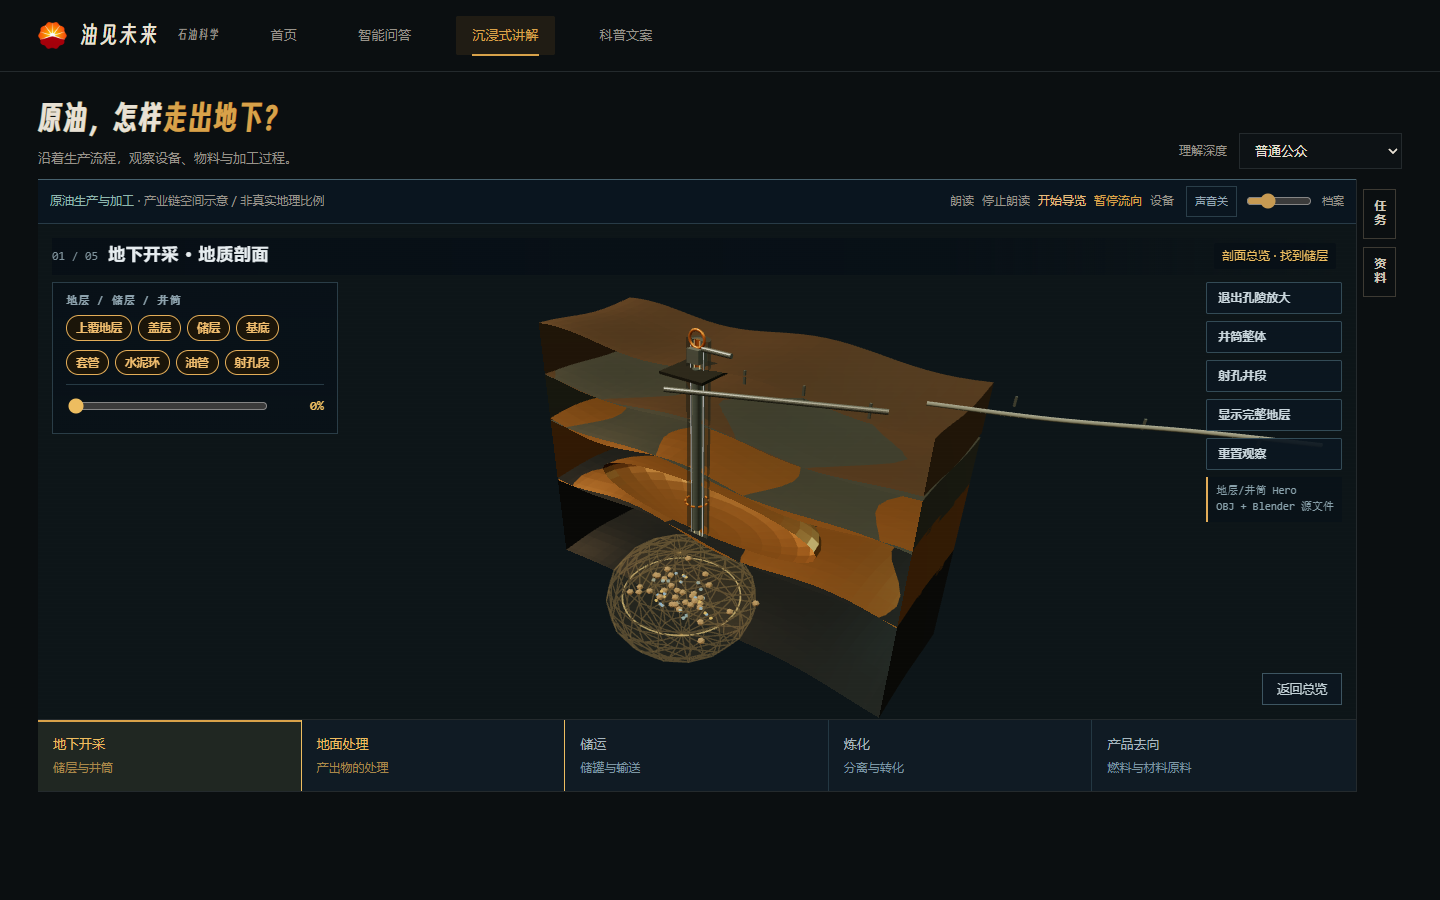
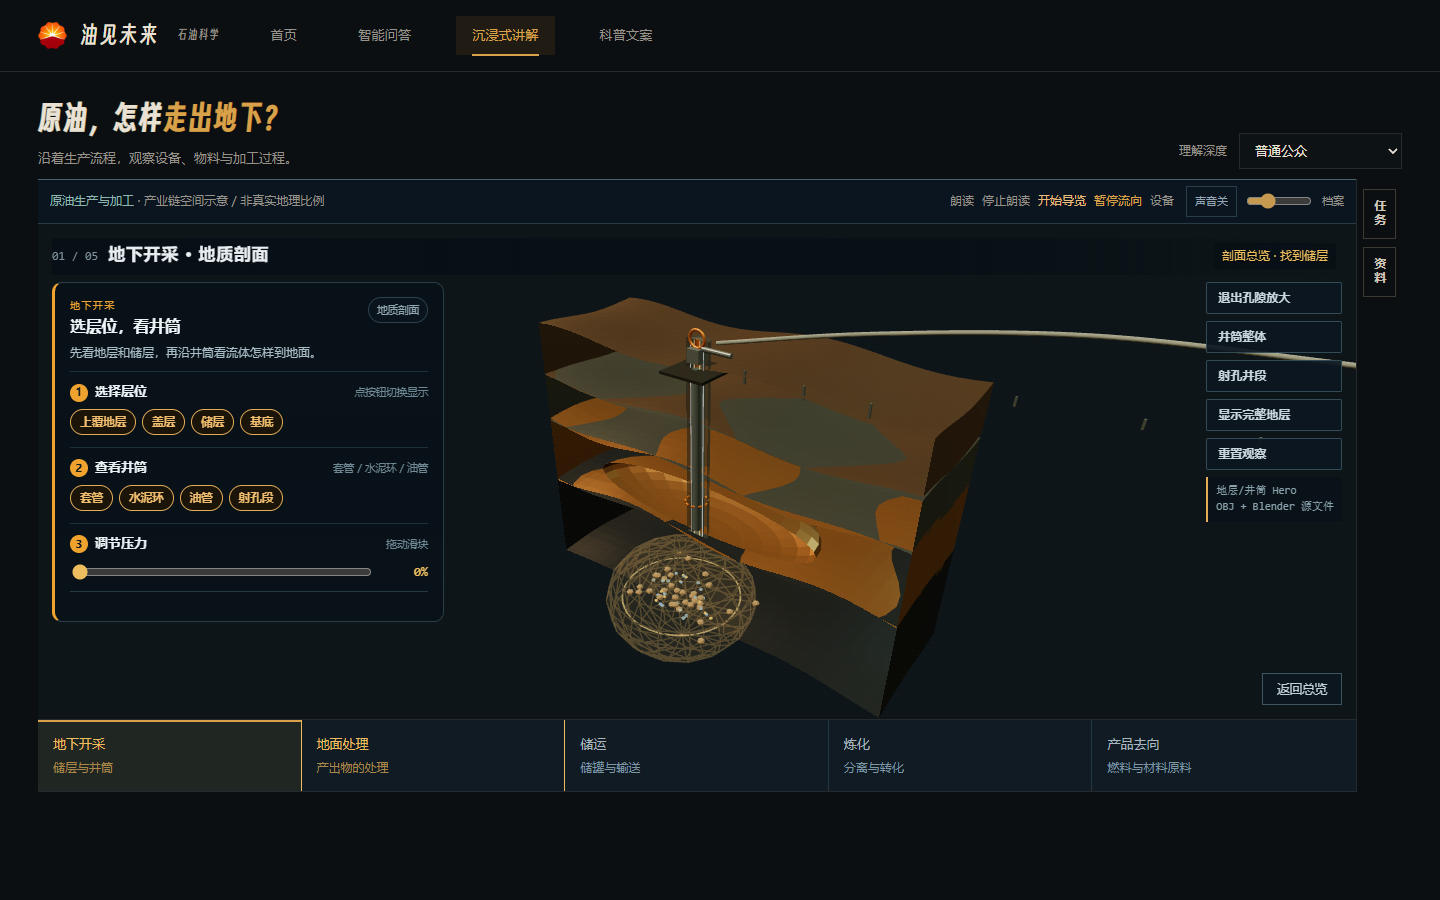
feat: align underground and product task panels

diff --git a/web/levels/l1.js b/web/levels/l1.js
@@ -62,6 +62,8 @@
     const s = document.createElement('style');
     s.id = 'ug-style';
     s.textContent = `
+      .ug-left.lvl2{width:min(392px,calc(100% - 28px));max-width:392px;max-height:calc(100% - 100px);top:58px;border-radius:10px;border-left:3px solid #f0a22e;padding:14px 15px 12px}
+      @media(max-width:900px){.ug-left.lvl2{width:min(360px,calc(100% - 28px))}}
       .ug-left{position:absolute;left:14px;top:58px;width:286px;max-height:calc(100% - 100px);overflow:auto;pointer-events:auto;
         background:linear-gradient(180deg,rgba(8,17,24,.95),rgba(8,17,24,.86));border:1px solid #2a3d47;padding:12px 13px;z-index:3}
       .ug-kicker{font:600 10.5px/1.2 ui-monospace,Consolas,monospace;letter-spacing:.13em;color:#8da2ad;text-transform:uppercase;margin-bottom:8px}
@@ -105,11 +107,23 @@
     ui.className = 'lvl';
     ui.innerHTML = [
       '<div class="lvl__bar"><span class="lvl__step">01 / 05</span><b>地下开采 · 地质剖面</b><span class="lvl__hint" id="l1-hint">镜头正在进入地下…</span></div>',
-      '<div class="ug-left" id="l1-panel">',
-      '  <div class="ug-kicker">地层 / 储层 / 井筒</div>',
+      '<div class="ug-left lvl2" id="l1-panel">',
+      '  <div class="lvl2__head"><div><span class="lvl2__eyebrow">地下开采</span><b>选层位，看井筒</b></div><span class="lvl2__state" id="l1-state">地质剖面</span></div>',
+      '  <p class="lvl2__lede">先看地层和储层，再沿井筒看流体怎样到地面。</p>',
+      '  <div class="lvl2__step">',
+      '  <div class="lvl2__stephead"><span class="lvl2__num">1</span><b>选择层位</b><span class="lvl2__stepnote">点按钮切换显示</span></div>',
       '  <div class="ug-chips" id="l1-layers" aria-label="地层显示切换"></div>',
+      '  </div>',
+      '  <div class="lvl2__step">',
+      '  <div class="lvl2__stephead"><span class="lvl2__num">2</span><b>查看井筒</b><span class="lvl2__stepnote">套管 / 水泥环 / 油管</span></div>',
       '  <div class="ug-chips" id="l1-parts" aria-label="井筒部件显示切换"></div>',
-      '  <div class="ug-info" id="l1-info" hidden><b>先找到储层</b><p>点击剖面中的岩层、储层或井筒部件。标签和解释只在你选中时出现。</p><small>教学示意：不是真实油藏数据，也不是真实地质比例。</small></div>',
+      '  </div>',
+      '  <div class="lvl2__step">',
+      '  <div class="lvl2__stephead"><span class="lvl2__num">3</span><b>调节压力</b><span class="lvl2__stepnote">拖动滑块</span></div>',
+      '  <div class="lvl__row"><input type="range" min="0" max="100" value="0" id="l1-press" aria-label="压力差示意（教学控制量）"><b id="l1-pct">0%</b></div>',
+      '  <div id="l1-act" aria-hidden="true"></div>',
+      '  </div>',
+      '  <div class="ug-info" id="l1-info" hidden><b>先找到储层</b><p>点击剖面中的岩层、储层或井筒部件。标签和解释只在你选中时出现。</p></div>',
       '  <div class="ug-legend" id="l1-legend"><span><i class="ug-dot" style="background:#d8a24a"></i>油（示意）</span><span><i class="ug-dot" style="background:#8fd3c6"></i>气（示意）</span><span><i class="ug-dot" style="background:#6f9fc4"></i>水（示意）</span></div>',
       '  <div class="ug-readout" id="l1-readout" hidden>状态：总览剖面 · 流体静止</div>',
       '</div>',
@@ -123,15 +137,9 @@
       '  <button type="button" class="ug-btn" id="l1-reset">重置观察</button>',
       '  <div class="ug-scale">地层/井筒 Hero<br>OBJ + Blender 源文件</div>',
       '</div>',
-      '<div class="lvl__act" id="l1-act">',
-      '  <div class="lvl__row"><input type="range" min="0" max="100" value="0" id="l1-press" aria-label="压力差示意（教学控制量）"><b id="l1-pct">0%</b></div>',
-      '</div>',
       '<button type="button" class="lvl__back" id="l1-back">返回总览</button>'
     ].join('');
     stage.viewport.appendChild(ui);
-    const actPanel = ui.querySelector('#l1-act');
-    const leftPanel = ui.querySelector('#l1-panel');
-    if (actPanel && leftPanel) leftPanel.appendChild(actPanel);
 
     hint = ui.querySelector('#l1-hint');
     info = ui.querySelector('#l1-info');
@@ -314,7 +322,7 @@
           node.userData.objectId = 'wellhead';
           if (name.indexOf('wellhead') === 0) wellheadMeshes.push(node);
         }
-        if (name === 'well_flowline') node.userData.ugFlowline = true;
+        if (name === 'well_flowline') { node.userData.ugFlowline = true; node.visible = false; }
       });
       // Cement is deliberately translucent so casing/cement relationship is visible.
       (partMeshes.cement || []).forEach(function (m) {
@@ -435,16 +443,17 @@
   function addSurfacePipe() {
     /* 地面集输管抬到地表以上，避免被台地/地层棱线截成两段。 */
     const pts = [
-      new THREE.Vector3(8.2, 1.05, -1.2),
-      new THREE.Vector3(11.5, 1.55, -2.8),
-      new THREE.Vector3(15.2, 1.9, -4.8),
-      new THREE.Vector3(18.0, 1.9, -6.0)
+      new THREE.Vector3(0.9, 1.35, 0.0),
+      new THREE.Vector3(6.0, 2.4, -1.0),
+      new THREE.Vector3(12.0, 3.2, -2.2),
+      new THREE.Vector3(18.0, 3.3, -3.2)
     ];
     const curve = new THREE.CatmullRomCurve3(pts);
     const pipe = new THREE.Mesh(
       new THREE.TubeGeometry(curve, 40, 0.075, 8, false),
-      new THREE.MeshStandardMaterial({ color: 0x7b8075, roughness: 0.55, metalness: 0.55 })
+      new THREE.MeshStandardMaterial({ color: 0x7b8075, roughness: 0.55, metalness: 0.55, depthTest: false, depthWrite: false })
     );
+    pipe.renderOrder = 6;
     pipe.name = 'surface_gathering_pipe';
     pipe.userData.ugSurfacePipe = true;
     G.add(pipe);

diff --git a/web/levels/l5.js b/web/levels/l5.js
@@ -112,12 +112,22 @@
 
   /* ---------- UI ---------- */
   const ui = document.createElement('div');
-  ui.className = 'lvl lvl--bottom';
+  ui.className = 'lvl';
   ui.innerHTML = [
     '<div class="lvl__bar"><span class="lvl__step">05 / 05</span><b>产品去向 · 挑出石油化工常见下游产品</b><span class="lvl__hint" id="l5-hint">镜头正在靠近产品台…</span></div>',
-    '<div class="lvl__act" id="l5-act" hidden>',
-    '<p>这些是同一批出厂的东西。<b>点出石油化工常见下游产品</b>；它们也可能存在其他原料路线。</p>',
-    '<div class="lvl__row"><b id="l5-count">已选 0</b><button type="button" class="lvl__chip on" id="l5-check">确认选择</button></div>',
+    '<div class="lvl__act lvl2" id="l5-act" hidden>',
+    '<div class="lvl2__head"><div><span class="lvl2__eyebrow">产品去向</span><b>挑出石油路线产品</b></div><span class="lvl2__state" id="l5-state">已选 0</span></div>',
+    '<p class="lvl2__lede">这些是同一批出厂的东西。选出常见的石油化工下游产品。</p>',
+    '<div class="lvl2__step">',
+    '<div class="lvl2__stephead"><span class="lvl2__num">1</span><b>选择产品</b><span class="lvl2__stepnote">点按钮，或点场景标签</span></div>',
+    '<div class="lvl__chips" id="l5-chips" role="group" aria-label="选择产品">',
+    ITEMS.map(function (it, i) { return '<button type="button" class="lvl__chip" data-item="' + i + '">' + it.name + '</button>'; }).join(''),
+    '</div>',
+    '</div>',
+    '<div class="lvl2__step">',
+    '<div class="lvl2__stephead"><span class="lvl2__num">2</span><b>确认选择</b><span class="lvl2__stepnote">多选判断</span></div>',
+    '<div class="lvl__row"><b id="l5-count">已选 0</b><button type="button" class="lvl__btn" id="l5-check">确认选择</button></div>',
+    '</div>',
     '<div class="lvl__out"><span id="l5-note">还没选</span></div>',
     '</div>',
     '<button type="button" class="lvl__back" id="l5-back">返回总览</button>'
@@ -129,6 +139,8 @@
   const countEl = ui.querySelector('#l5-count');
   const note = ui.querySelector('#l5-note');
   const checkBtn = ui.querySelector('#l5-check');
+  const stateEl = ui.querySelector('#l5-state');
+  const chips = Array.prototype.slice.call(ui.querySelectorAll('#l5-chips .lvl__chip'));
   const back = ui.querySelector('#l5-back');
 
   const picked = new Set();
@@ -136,6 +148,12 @@
 
   function refreshCount() {
     countEl.textContent = '已选 ' + picked.size;
+    if (stateEl) stateEl.textContent = completed ? '已完成' : '已选 ' + picked.size;
+    chips.forEach(function (b) {
+      const i = Number(b.getAttribute('data-item'));
+      b.classList.toggle('on', picked.has(i));
+      b.setAttribute('aria-pressed', picked.has(i) ? 'true' : 'false');
+    });
   }
 
   function toggle(i) {
@@ -156,6 +174,10 @@
     if (stage.setInteraction) stage.setInteraction('select_product', it.name, picked.size + ' 件');
     note.textContent = '已选 ' + picked.size + ' 件';
   }
+
+  chips.forEach(function (b) {
+    b.addEventListener('click', function () { toggle(Number(b.getAttribute('data-item'))); });
+  });
 
   checkBtn.addEventListener('click', function () {
     if (completed) return;
@@ -190,6 +212,7 @@
     back.classList.add('pulse');
     back.textContent = '完成，返回总览 →';
     checkBtn.disabled = true;
+    refreshCount();
     note.textContent = '六件常见石油路线产品；塑料等也可能来自天然气、煤基或生物基原料';
   }
 

diff --git a/web/sandbox.html b/web/sandbox.html
@@ -355,6 +355,8 @@ body.journey-tour.journey-paused .lvl-entries{display:none!important}
   .lvl2__legend{display:flex;flex-wrap:wrap;gap:5px 10px;margin:2px 0 6px;font-size:10.5px;color:#9fb2bc}
   .lvl2__legend span{display:inline-flex;align-items:center;gap:4px;white-space:nowrap}
   .lvl2__legend i{display:inline-block;width:7px;height:7px;border-radius:50%}
+  #l5-count{white-space:nowrap;display:inline-block}
+  .lvl[data-level-id="l5"] .lvl__row{align-items:center}
   .lvl2 .lvl__btns{display:flex;flex-wrap:wrap;gap:7px;margin:0}
   .lvl2 .lvl__btn{font:600 12px/1 "Microsoft YaHei UI",sans-serif;color:#c8d8e0;background:#0d1a23;border:1px solid #314753;border-radius:7px;padding:9px 12px;cursor:pointer;min-height:34px}
   .lvl2 .lvl__btn:hover{border-color:#48d7f0;color:#eaf6fa}
@@ -395,12 +397,12 @@ body.journey-tour.journey-paused .lvl-entries{display:none!important}
 .chapter-link{align-self:center;flex-shrink:0;font-size:12.5px;color:var(--amber);border:1px solid var(--line);padding:7px 13px;text-decoration:none;white-space:nowrap;margin-right:10px}.chapter-link:hover{border-color:var(--amber);color:#efc684}
 .tower-link,.chapter-link{font-size:12px}
 </style>
-<script src="levels/entry.js?v=v42"></script>
-<script src="levels/l1.js?v=v72"></script>
+<script src="levels/entry.js?v=v43"></script>
+<script src="levels/l1.js?v=v76"></script>
 <script src="levels/l2.js?v=v58"></script>
 <script src="levels/l3.js?v=v62"></script>
 <script src="levels/l4.js?v=v65"></script>
-<script src="levels/l5.js?v=v42"></script>
+<script src="levels/l5.js?v=v20"></script>
 <script src="ai-actions.js?v=1"></script>
 <script src="journey-store.js?v=2"></script>
 <script src="voice.js?v=4"></script>

diff --git a/web/levels/entry.js b/web/levels/entry.js
@@ -49,7 +49,7 @@
         let levelId = panel.dataset.levelId || '';
         if (!levelId && /^l\d-act$/.test(actId)) levelId = actId.slice(0, 2);
         if (levelId === 'l1') return; // 阶段 08：地下开采只保留滑块，不显示通用操作引导
-        if (levelId === 'l4' || levelId === 'l2' || levelId === 'l3') return; // l4/l2 有分步说明；l3 用设备-液位-泵送分区，避免通用引导条遮挡设备
+        if (levelId === 'l4' || levelId === 'l2' || levelId === 'l3' || levelId === 'l5') return; // l4/l2 有分步说明；l3 用设备-液位-泵送分区，避免通用引导条遮挡设备
         const ids = ['l1', 'l2', 'l3', 'l4', 'l5'];
         const idx = levelId ? ids.indexOf(levelId) : Array.prototype.indexOf.call(document.querySelectorAll('.lvl'), panel);
         if (idx < 0) return;

diff --git a/docs/phase-reports/phase-08-handoff.md b/docs/phase-reports/phase-08-handoff.md
@@ -360,3 +360,6 @@ phase08-02b-action-suggestion.png
 - 储运出口管线：局部出口固定到罐区右侧，不再按总览路径起点回穿两只罐体。
 
 - 地下开采地面集输管：整条曲线抬到地表棱线以上，避免被台地/地层边缘遮挡成断开。
+
+- 地下开采任务栏：按“层位 → 井筒 → 压力”三步重排，右侧剖切/井筒按钮保留；地面集输管从井口连续引出，不再被台地截断。
+- 产品去向任务栏：改为左侧分步面板，产品按钮与场景标签同步，确认按钮独立成步。

diff --git a/docs/phase-reports/evidence/phase-08/README.md b/docs/phase-reports/evidence/phase-08/README.md
@@ -45,3 +45,7 @@ CDP_PORT=4344 BASE_URL=http://127.0.0.1:8796 node tools/phase08-verify.cjs
 - `l3-pipe-fixed.png`：转输泵出口在罐区右侧，管线不再穿过罐体。
 
 - `l1-pipe-fixed.png`：地下开采地面集输管完整跨过台地。
+
+- `l1-panel.png`：地下开采分步任务栏。
+- `l5-panel2.png`：产品去向分步任务栏。
+- `l1-pipe-final3.png`：地下开采集输管从井口连续引出。

diff --git a/CHANGELOG.md b/CHANGELOG.md
@@ -242,3 +242,5 @@
 - 储运：转输泵出口改到罐区右侧，避免管线为接总览路径而穿过罐体。
 
 - 地下开采：地面集输管抬到地表棱线以上，管线不再被台地截断。
+
+- 地下开采、产品去向任务栏改成与地面处理/储运一致的分步面板；地下开采集输管改为从井口连续引出。
